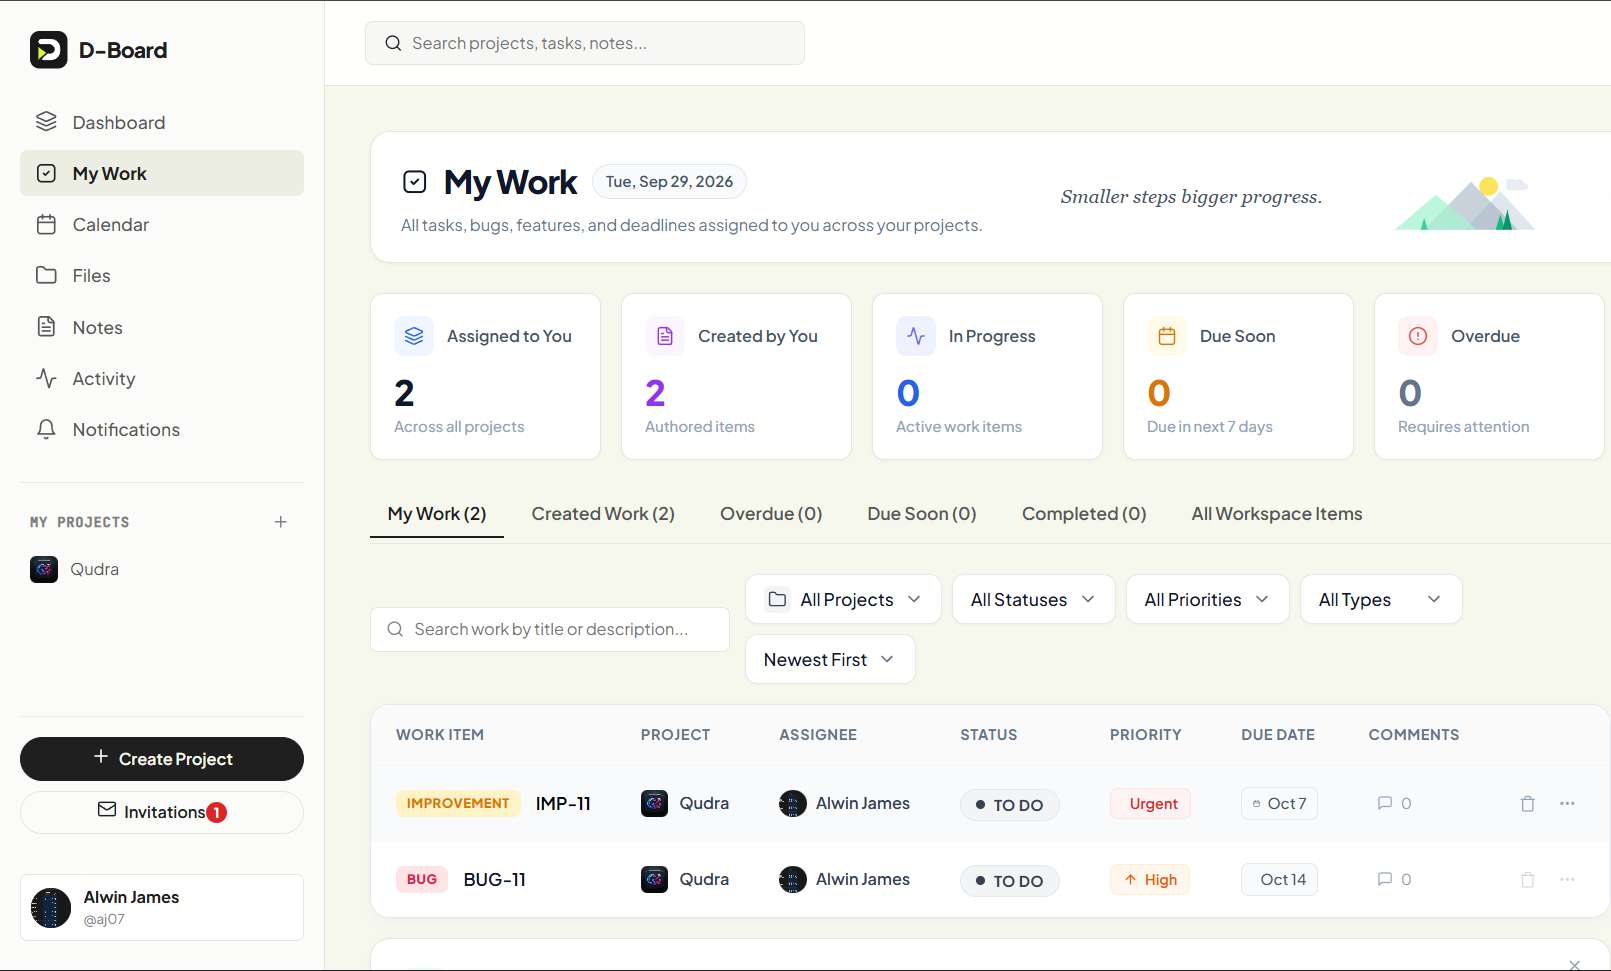
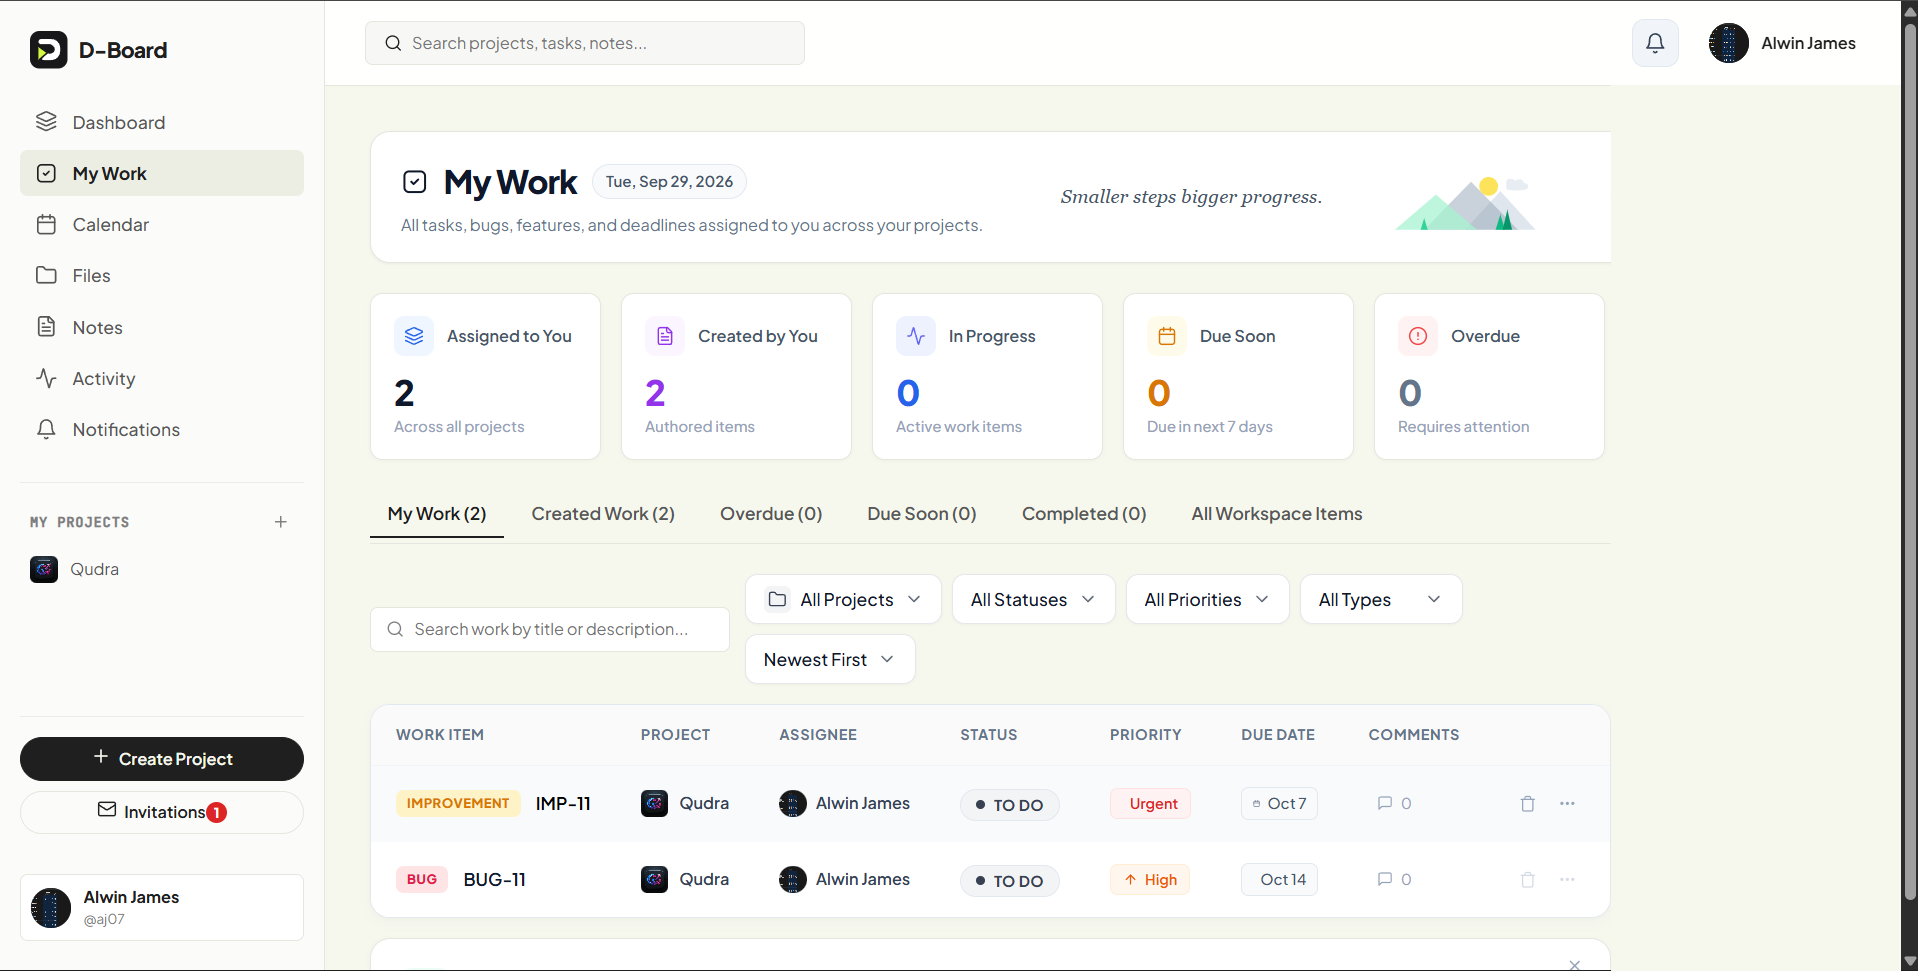
contents updated

diff --git a/frontend/src/data/portfolio.js b/frontend/src/data/portfolio.js
@@ -4,9 +4,11 @@ export const PROFILE = {
   roles: ["Backend Developer", "Full-Stack Developer", "AI / ML Engineer"],
   tagline:
     "MCA graduate engineering robust backend architectures and full-stack systems — from production MERN platforms to RAG-powered AI workflows.",
-  summary:
-    "MCA graduate with hands-on backend and AI development experience across two internships. I built a production MERN stack recruitment platform at Beepeaks and a RAG chatbot at IPSR Solutions. My core strength lies in designing clean REST APIs, secure JWT authentication, scalable MongoDB data models, and end-to-end ML workflows. Currently seeking SDE or AI/ML roles in Bengaluru.",
-  location: "Bengaluru, India",
+  summary: [
+    "I’m an MCA graduate and software developer with hands-on experience building backend systems, production web applications, and AI-powered solutions. I specialize in designing clean REST APIs, secure authentication and role-based systems, and scalable database-driven applications using Node.js, Express.js, MongoDB, and React.js.",
+    "Alongside backend development, I’ve worked on RAG-based AI applications, LLM integrations, machine learning workflows, and data-driven solutions using Python and modern AI tools. I enjoy turning complex requirements into reliable, practical software with a strong focus on clean architecture, security, and user experience.",
+  ],
+  location: "Kerala, India",
   email: "alwinjames66@gmail.com",
   phone: "+91 9846400256",
   github: "https://github.com/J7-Alwin",
@@ -16,58 +18,119 @@ export const PROFILE = {
   photo: "/assets/alwinpic.png",
 };
 
+export const WHAT_I_BUILD = [
+  {
+    title: "Backend & APIs",
+    description: "Secure REST APIs, authentication, RBAC and database-driven systems.",
+  },
+  {
+    title: "AI & RAG",
+    description: "LLM-powered applications, RAG pipelines and intelligent features.",
+  },
+  {
+    title: "Full-stack products",
+    description: "React interfaces connected to reliable backend services and data layers.",
+  },
+];
+
 export const SKILLS = [
   {
-    category: "Backend",
+    category: "Backend & Real-Time",
     icon: "Server",
     items: [
       "Node.js",
       "Express.js",
-      "REST APIs",
+      "TypeScript",
       "Socket.IO",
       "BullMQ",
-      "JWT",
-      "Nodemailer",
-      "node-cron",
+      "Prisma ORM",
+      "Zod",
+      "REST APIs",
+      "JWT (Auth)",
+      "Bcrypt",
+      "Helmet",
       "Multer",
+      "Nodemailer",
       "Django",
     ],
   },
   {
     category: "Frontend",
     icon: "Layout",
-    items: ["React.js", "TypeScript", "JavaScript", "HTML", "CSS", "Firebase"],
+    items: [
+      "React 19",
+      "TypeScript",
+      "JavaScript",
+      "Vite",
+      "Socket.IO Client",
+      "Vanilla CSS",
+      "HTML5",
+      "DOMPurify",
+      "SheetJS (XLSX)",
+      "Mammoth.js",
+      "JSZip",
+      "Firebase",
+    ],
   },
   {
-    category: "Databases",
+    category: "Database & In-Memory",
     icon: "Database",
     items: [
       "PostgreSQL",
-      "MongoDB",
-      "Redis",
+      "Redis / Valkey",
       "Prisma ORM",
+      "MongoDB",
       "Firebase Realtime DB",
       "SQL",
       "Pinecone",
     ],
   },
   {
-    category: "AI / ML",
-    icon: "BrainCircuit",
-    items: ["Python", "RAG", "LLMs", "Prompt Engineering", "Scikit-learn", "Pandas", "NumPy", "Power BI", "n8n"],
-  },
-  {
-    category: "Cloud & Tools",
+    category: "Storage & Cloud",
     icon: "Cloud",
     items: [
-      "Docker",
-      "Cloudflare R2",
+      "Cloudflare R2 / AWS S3",
+      "CAS (SHA-256)",
+      "Render",
       "AWS",
       "Microsoft Azure",
-      "Git",
-      "GitHub",
-      "VS Code",
+      "Brevo (SMTP)",
+      "Docker",
+      "Docker Compose",
+      "Nginx",
+      "GitHub Actions (CI/CD)",
+      "Git & GitHub",
       "Postman",
+    ],
+  },
+  {
+    category: "Testing & Security",
+    icon: "ShieldCheck",
+    items: [
+      "Vitest",
+      "React Testing Library",
+      "Supertest",
+      "Zod Validation",
+      "Helmet",
+      "Bcrypt",
+      "JWT & RBAC",
+      "DOMPurify",
+      "CAS Integrity",
+    ],
+  },
+  {
+    category: "AI / ML & Data",
+    icon: "BrainCircuit",
+    items: [
+      "Python",
+      "RAG",
+      "LLMs",
+      "Prompt Engineering",
+      "Scikit-learn",
+      "Pandas",
+      "NumPy",
+      "Power BI",
+      "n8n",
       "Google Colab",
     ],
   },
@@ -77,8 +140,9 @@ export const PROJECTS = [
   {
     id: "dboard",
     name: "D-Board — Project Management Platform",
-    tag: "REAL-TIME COLLABORATION SYSTEM",
-    badge: "REAL-TIME COLLABORATION SYSTEM",
+    title: "D-Board — Project Management Platform",
+    tag: "Real-Time Collaboration System",
+    badge: "Real-Time Collaboration System",
     context: "FULL-STACK & BACKEND ARCHITECTURE — ENTERPRISE WORKSPACE",
     category: "FULL-STACK & BACKEND ARCHITECTURE — ENTERPRISE WORKSPACE",
     description:
@@ -111,6 +175,7 @@ export const PROJECTS = [
     ],
     github: "https://github.com/J7-Alwin/D-Board",
     githubUrl: "https://github.com/J7-Alwin/D-Board",
+    live: "https://d-board-web.onrender.com/",
     liveUrl: "https://d-board-web.onrender.com/",
     screenshots: [
       "/assets/project/pj4-1.png",

diff --git a/frontend/src/components/About.jsx b/frontend/src/components/About.jsx
@@ -1,15 +1,18 @@
 import { motion } from "framer-motion";
-import { Server, Layout, Database, BrainCircuit, Cloud } from "lucide-react";
+import { Server, Layout, Database, BrainCircuit, Cloud, ShieldCheck } from "lucide-react";
 import { SectionHeading } from "@/components/SectionHeading";
-import { PROFILE, SKILLS, EXPERIENCE, PROJECTS, CERTIFICATES } from "@/data/portfolio";
+import { PROFILE, WHAT_I_BUILD, SKILLS, EXPERIENCE, PROJECTS, CERTIFICATES } from "@/data/portfolio";
 
-const ICONS = { Server, Layout, Database, BrainCircuit, Cloud };
+const ICONS = { Server, Layout, Database, BrainCircuit, Cloud, ShieldCheck };
 
 export const About = () => {
   return (
     <section id="about" className="py-16 md:py-24 px-6 md:px-12">
       <div className="max-w-7xl mx-auto">
-        <SectionHeading eyebrow="About Me" title="Backend-first engineer with an AI edge" />
+        <SectionHeading
+          eyebrow="About Me"
+          title="Backend-focused developer building AI-powered software"
+        />
 
         <div className="grid grid-cols-1 md:grid-cols-3 gap-6">
           <motion.div
@@ -17,11 +20,17 @@ export const About = () => {
             whileInView={{ opacity: 1, y: 0 }}
             viewport={{ once: true }}
             transition={{ duration: 0.5 }}
-            className="md:col-span-3 lg:col-span-2 rounded-2xl border border-border bg-card p-8"
+            className="md:col-span-3 lg:col-span-2 rounded-2xl border border-border bg-card p-8 flex flex-col justify-between"
             data-testid="about-summary"
           >
-            <p className="text-lg leading-relaxed text-foreground/90">{PROFILE.summary}</p>
-            <div className="mt-6 flex flex-wrap gap-6 text-sm">
+            <div className="space-y-4 text-base sm:text-lg leading-relaxed text-foreground/90">
+              {Array.isArray(PROFILE.summary) ? (
+                PROFILE.summary.map((para, idx) => <p key={idx}>{para}</p>)
+              ) : (
+                <p>{PROFILE.summary}</p>
+              )}
+            </div>
+            <div className="mt-8 flex flex-wrap gap-6 text-sm border-t border-border/60 pt-6">
               <div>
                 <p className="font-heading text-3xl font-bold text-brand">{EXPERIENCE.length}</p>
                 <p className="text-muted-foreground">Internships</p>
@@ -42,19 +51,28 @@ export const About = () => {
             whileInView={{ opacity: 1, y: 0 }}
             viewport={{ once: true }}
             transition={{ duration: 0.5, delay: 0.1 }}
-            className="rounded-2xl border border-border bg-brand/5 p-8 flex flex-col justify-center"
+            className="rounded-2xl border border-border bg-brand/5 p-8 flex flex-col justify-between"
           >
-            <p className="font-heading text-xl font-semibold">What I build</p>
-            <p className="mt-3 text-sm leading-relaxed text-muted-foreground">
-              Secure REST APIs, JWT auth & role-based access, scalable MongoDB models, automated workflows, and RAG-powered AI features — all wired to clean React frontends.
-            </p>
+            <div>
+              <p className="font-heading text-xl font-semibold">What I build</p>
+              <div className="mt-5 space-y-4">
+                {(WHAT_I_BUILD || []).map((item) => (
+                  <div key={item.title}>
+                    <h4 className="font-heading text-sm font-semibold text-brand">{item.title}</h4>
+                    <p className="mt-1 text-xs leading-relaxed text-muted-foreground">
+                      {item.description}
+                    </p>
+                  </div>
+                ))}
+              </div>
+            </div>
           </motion.div>
         </div>
 
         <h3 className="font-heading mt-16 mb-6 text-xl font-semibold tracking-tight">Core Tech Stack</h3>
         <div className="grid grid-cols-1 md:grid-cols-2 lg:grid-cols-3 gap-6">
           {SKILLS.map((group, i) => {
-            const Icon = ICONS[group.icon];
+            const Icon = ICONS[group.icon] || Server;
             return (
               <motion.div
                 key={group.category}

diff --git a/frontend/src/components/Projects.jsx b/frontend/src/components/Projects.jsx
@@ -142,21 +142,34 @@ export const Projects = () => {
                   </div>
 
                   <div className="mt-8 flex flex-wrap items-center gap-3">
-                    <a href={p.github} target="_blank" rel="noopener noreferrer">
-                      <button
-                        data-testid={`project-code-${p.id}`}
-                        className="inline-flex items-center gap-2 rounded-full border border-border bg-card px-5 py-2.5 text-sm font-semibold hover:border-brand/50 hover:text-brand hover:-translate-y-0.5 transition-all"
+                    {(p.github || p.githubUrl) && (
+                      <a
+                        href={p.github || p.githubUrl}
+                        target="_blank"
+                        rel="noopener noreferrer"
+                        className="inline-block"
                       >
-                        <FaGithub className="h-4 w-4" /> View Code
-                      </button>
-                    </a>
-                    {p.liveUrl && (
-                      <a href={p.liveUrl} target="_blank" rel="noopener noreferrer">
+                        <button
+                          data-testid={`project-code-${p.id}`}
+                          className="inline-flex items-center gap-2 rounded-full border border-border bg-card px-5 py-2.5 text-sm font-semibold hover:border-brand/50 hover:text-brand hover:-translate-y-0.5 transition-all shadow-sm"
+                        >
+                          <FaGithub className="h-4 w-4" /> View Code
+                        </button>
+                      </a>
+                    )}
+
+                    {(p.live || p.liveUrl) && (
+                      <a
+                        href={p.live || p.liveUrl}
+                        target="_blank"
+                        rel="noopener noreferrer"
+                        className="inline-block"
+                      >
                         <button
                           data-testid={`project-live-${p.id}`}
-                          className="inline-flex items-center gap-2 rounded-full bg-brand text-brand-foreground px-5 py-2.5 text-sm font-semibold hover:bg-brand/90 hover:-translate-y-0.5 transition-all shadow-md shadow-brand/20"
+                          className="inline-flex items-center gap-2 rounded-full border border-brand/40 bg-brand/10 text-brand px-5 py-2.5 text-sm font-semibold hover:bg-brand hover:text-background hover:-translate-y-0.5 transition-all shadow-sm"
                         >
-                          <ExternalLink className="h-4 w-4" /> Live Demo / API Docs
+                          <ExternalLink className="h-4 w-4" /> Live Demo
                         </button>
                       </a>
                     )}
